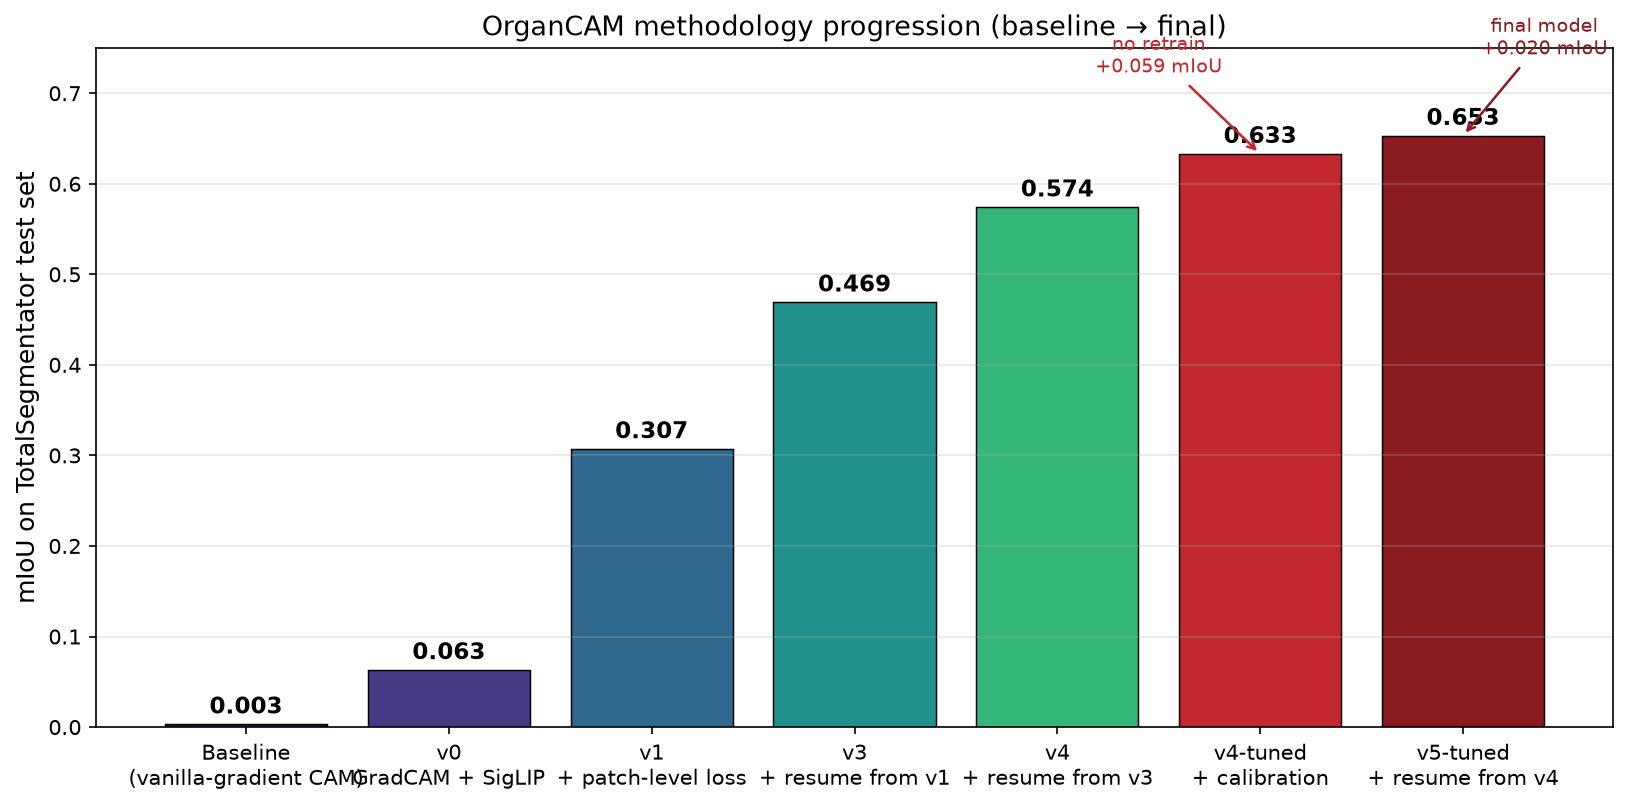
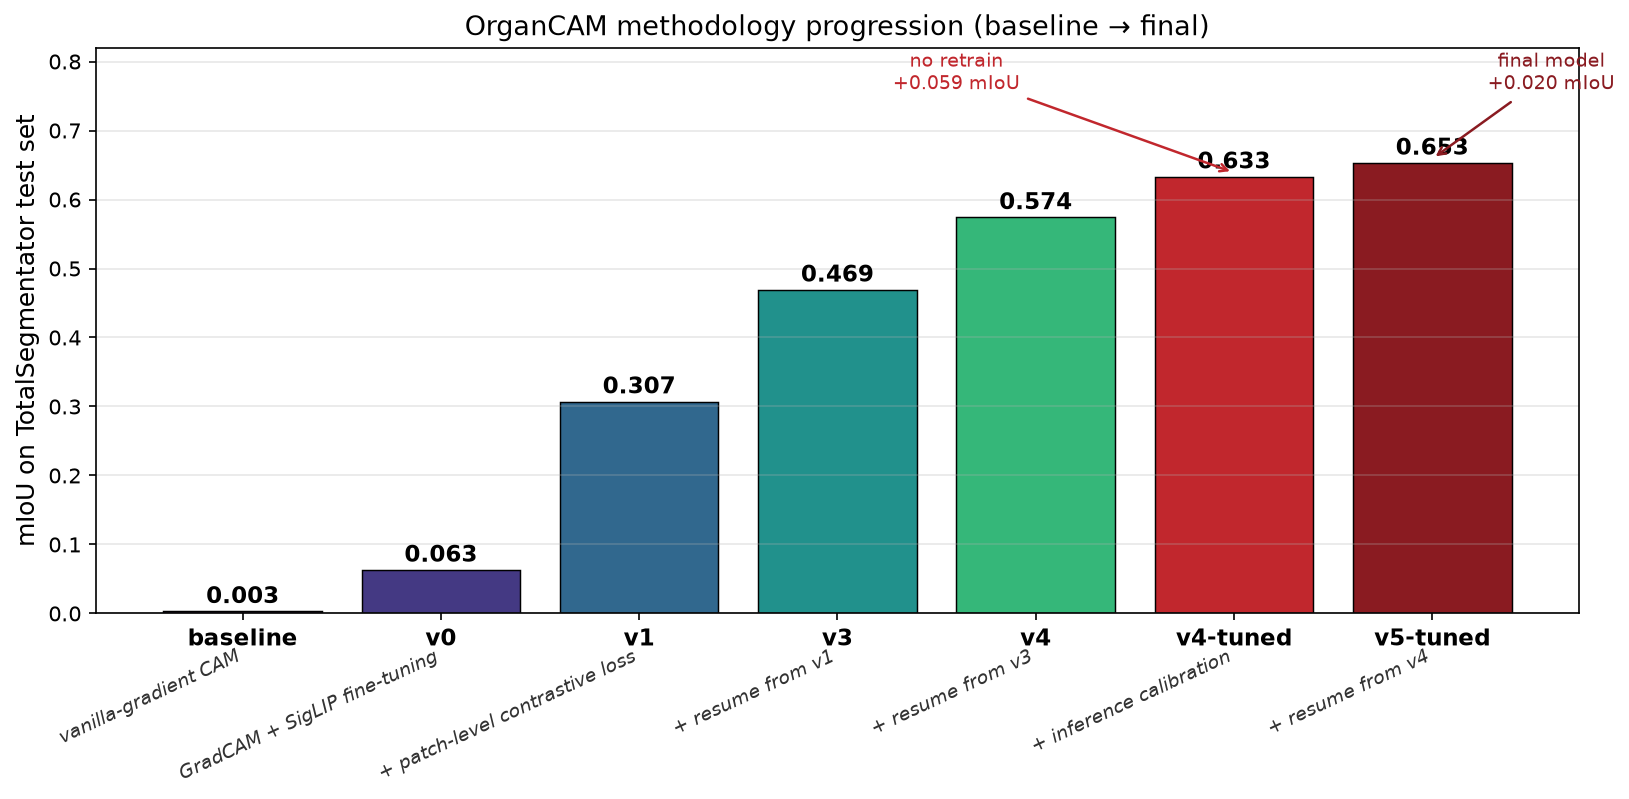
chore: publication-quality figure pass
- progression.png: replace overlapping x-labels with bold version + italic-angled descriptions; annotations anchored above bars without collision

- calibration_impact.png: tightened delta annotation anchoring

- caption_ablation.png: rows sorted by mean L1-L4 IoU descending (bilateral pairs naturally adjacent); 300 DPI, colorbar cleaned up

- raw/adjusted_similarities.png: added panel labels A-K, consistent x-axis range across classes, single top legend, tidy stats annotation box, 300 DPI

- totalseg_summary.png: proper row labels (Input CT / Patch Similarity / Overlay) via set_xticks([]) instead of axis('off'); added shared colorbar; 300 DPI

- caption_ablation.py: added --replot-only mode to regenerate heatmap from cached JSON without re-running inference

diff --git a/scripts/make_figures.py b/scripts/make_figures.py
@@ -19,14 +19,24 @@ import numpy as np
 OUT_DIR = Path("figures")
 
 # ─── Methodology progression (raw untuned checkpoint peaks, unless noted) ────
+# Short, single-line labels so they don't overlap at the given figure width.
 PROGRESSION = [
-    ("Baseline\n(vanilla-gradient CAM)", 0.003),
-    ("v0\nGradCAM + SigLIP",             0.063),
-    ("v1\n+ patch-level loss",           0.307),
-    ("v3\n+ resume from v1",             0.469),
-    ("v4\n+ resume from v3",             0.574),
-    ("v4-tuned\n+ calibration",          0.633),
-    ("v5-tuned\n+ resume from v4",       0.653),
+    ("baseline",       0.003),
+    ("v0",             0.063),
+    ("v1",             0.307),
+    ("v3",             0.469),
+    ("v4",             0.574),
+    ("v4-tuned",       0.633),
+    ("v5-tuned",       0.653),
+]
+PROGRESSION_DESCRIPTIONS = [
+    "vanilla-gradient CAM",
+    "GradCAM + SigLIP fine-tuning",
+    "+ patch-level contrastive loss",
+    "+ resume from v1",
+    "+ resume from v3",
+    "+ inference calibration",
+    "+ resume from v4",
 ]
 
 CLASSES = ["bladder", "femur-left", "femur-right", "heart",
@@ -53,40 +63,44 @@ def figure_progression():
     labels = [x[0] for x in PROGRESSION]
     values = [x[1] for x in PROGRESSION]
 
-    # gradient from grey → deep blue for the methodology arc
     cmap   = plt.get_cmap("viridis")
     colors = [cmap(i / (len(labels) - 1)) for i in range(len(labels))]
-    colors[-2] = "#c1272d"  # highlight the calibration step in red
-    colors[-1] = "#8a1b21"  # v5-tuned in darker red (final model)
+    colors[-2] = "#c1272d"
+    colors[-1] = "#8a1b21"
 
     bars = ax.bar(range(len(labels)), values, color=colors,
                   edgecolor="black", linewidth=0.7)
 
+    # Version labels on the tick axis (short, no overlap)
     ax.set_xticks(range(len(labels)))
-    ax.set_xticklabels(labels, fontsize=10)
+    ax.set_xticklabels(labels, fontsize=11, fontweight="bold")
+    # Descriptions in italics under the ticks, angled to prevent overlap
+    for i, desc in enumerate(PROGRESSION_DESCRIPTIONS):
+        ax.text(i, -0.06, desc, ha="right", va="top", rotation=25,
+                fontsize=9, style="italic", color="#333",
+                transform=ax.get_xaxis_transform())
+
     ax.set_ylabel("mIoU on TotalSegmentator test set", fontsize=12)
-    ax.set_ylim(0, 0.75)
-    ax.set_title(
-        "OrganCAM methodology progression (baseline → final)",
-        fontsize=13,
-    )
+    ax.set_ylim(0, 0.82)  # headroom for annotations
+    ax.set_title("OrganCAM methodology progression (baseline → final)", fontsize=13)
     ax.grid(axis="y", alpha=0.3)
 
     for bar, val in zip(bars, values):
         ax.text(bar.get_x() + bar.get_width() / 2, val + 0.012,
                 f"{val:.3f}", ha="center", fontsize=11, fontweight="bold")
 
+    # Annotations placed at fixed heights above the bars — no overlap.
     ax.annotate(
         "no retrain\n+0.059 mIoU",
-        xy=(len(labels) - 2, values[-2]),
-        xytext=(len(labels) - 2.5, values[-2] + 0.09),
+        xy=(len(labels) - 2, values[-2] + 0.006),
+        xytext=(len(labels) - 3.4, 0.76),
         fontsize=9, ha="center", color="#c1272d",
         arrowprops=dict(arrowstyle="->", color="#c1272d", lw=1.2),
     )
     ax.annotate(
         "final model\n+0.020 mIoU",
-        xy=(len(labels) - 1, values[-1]),
-        xytext=(len(labels) - 0.6, values[-1] + 0.09),
+        xy=(len(labels) - 1, values[-1] + 0.006),
+        xytext=(len(labels) - 0.4, 0.76),
         fontsize=9, ha="center", color="#8a1b21",
         arrowprops=dict(arrowstyle="->", color="#8a1b21", lw=1.2),
     )
@@ -120,12 +134,13 @@ def figure_calibration_impact():
     ax.legend(loc="upper right", fontsize=11)
     ax.grid(axis="y", alpha=0.3)
 
-    # annotate improvement (or lack thereof)
+    # Delta labels above each bar, anchored at fixed height so they don't
+    # float away from small-value bars.
     for i, (u, t) in enumerate(zip(uniform, tuned)):
         delta = t - u
-        y = max(u, t) + 0.025
-        col = "#0a7a0a" if delta > 0.05 else "#555555"
-        ax.text(x[i], y, f"{'+' if delta >= 0 else ''}{delta:.2f}",
+        col   = "#0a7a0a" if delta > 0.05 else "#555555"
+        y_bar = max(u, t) + 0.015
+        ax.text(x[i], y_bar, f"{'+' if delta >= 0 else ''}{delta:.2f}",
                 ha="center", fontsize=10, color=col, fontweight="bold")
 
     fig.tight_layout()

diff --git a/scripts/caption_ablation.py b/scripts/caption_ablation.py
@@ -218,38 +218,86 @@ def evaluate_level(cache, text_features):
 
 
 def plot_heatmap(all_results: dict, out_path: Path):
-    levels  = sorted(all_results.keys())
-    classes = sorted(CLASS_NAMES.keys())
-    matrix  = np.zeros((len(classes), len(levels)))
-    for j, l in enumerate(levels):
+    """Heatmap: classes sorted by mean IoU across non-adversarial levels
+    (L1-L4), descending. Bilateral pairs tend to end up adjacent naturally,
+    and the visual gradient guides the eye from top (strong) to bottom (hard).
+    """
+    plt.rcParams.update({
+        "font.family": "sans-serif",
+        "font.sans-serif": ["Helvetica", "Arial", "DejaVu Sans"],
+    })
+
+    levels_all = sorted(all_results.keys())
+    non_adv    = [l for l in levels_all if l != 5]
+
+    class_mean_easy = {
+        c: float(np.mean([all_results[l]["per_class"][c]["iou"] for l in non_adv]))
+        for c in CLASS_NAMES
+    }
+    classes = sorted(CLASS_NAMES.keys(), key=lambda c: -class_mean_easy[c])
+
+    matrix = np.zeros((len(classes), len(levels_all)))
+    for j, l in enumerate(levels_all):
         for i, c in enumerate(classes):
             matrix[i, j] = all_results[l]["per_class"][c]["iou"]
 
-    fig, ax = plt.subplots(figsize=(11, 8))
+    fig, ax = plt.subplots(figsize=(11, 7.5))
     im = ax.imshow(matrix, cmap="viridis", aspect="auto", vmin=0, vmax=1)
-    ax.set_xticks(range(len(levels)))
-    ax.set_xticklabels([f"L{l}\n{LEVEL_NAMES[l]}" for l in levels])
+
+    ax.set_xticks(range(len(levels_all)))
+    ax.set_xticklabels([f"L{l}\n{LEVEL_NAMES[l]}" for l in levels_all], fontsize=10)
     ax.set_yticks(range(len(classes)))
-    ax.set_yticklabels([CLASS_NAMES[c] for c in classes])
+    ax.set_yticklabels([CLASS_NAMES[c] for c in classes], fontsize=10)
+    ax.tick_params(axis="both", length=0)
+
     for i in range(len(classes)):
-        for j in range(len(levels)):
+        for j in range(len(levels_all)):
             v = matrix[i, j]
             ax.text(j, i, f"{v:.2f}", ha="center", va="center",
-                    color="white" if v < 0.5 else "black", fontsize=9)
-    ax.set_title("Caption ablation: per-class IoU vs prompt formulation level", fontsize=13)
-    plt.colorbar(im, ax=ax, label="IoU")
+                    color="white" if v < 0.5 else "black", fontsize=10)
+
+    ax.set_title(
+        "Caption ablation: per-class IoU across five prompt formulation levels\n"
+        "(rows sorted by mean IoU on non-adversarial levels — hard classes at bottom)",
+        fontsize=12, pad=10,
+    )
+
+    cbar = plt.colorbar(im, ax=ax, fraction=0.035, pad=0.02)
+    cbar.set_label("IoU", fontsize=11)
+    cbar.ax.tick_params(labelsize=9)
+
     fig.tight_layout()
-    fig.savefig(out_path, dpi=120)
+    fig.savefig(out_path, dpi=300, bbox_inches="tight", facecolor="white")
     plt.close(fig)
 
 
 def main():
     parser = argparse.ArgumentParser()
-    parser.add_argument("--checkpoint", required=True)
-    parser.add_argument("--root", required=True)
+    parser.add_argument("--checkpoint", required=False)
+    parser.add_argument("--root", required=False)
     parser.add_argument("--limit", type=int, default=300)
     parser.add_argument("--device", default="cuda" if torch.cuda.is_available() else "cpu")
+    parser.add_argument("--replot-only", action="store_true",
+                        help="Skip inference — read diagnostics/caption_ablation.json "
+                             "and only regenerate the heatmap")
     args = parser.parse_args()
+
+    if args.replot_only:
+        json_path = OUT_DIR / "caption_ablation.json"
+        if not json_path.exists():
+            raise FileNotFoundError(f"{json_path} not found — run without --replot-only first")
+        with open(json_path) as f:
+            raw = json.load(f)
+        all_results = {
+            int(k): {**v, "per_class": {int(c): d for c, d in v["per_class"].items()}}
+            for k, v in raw.items()
+        }
+        plot_heatmap(all_results, OUT_DIR / "caption_ablation.png")
+        print(f"Regenerated {OUT_DIR / 'caption_ablation.png'}")
+        return
+
+    if not args.checkpoint or not args.root:
+        parser.error("--checkpoint and --root are required unless --replot-only is set")
 
     if "ANTHROPIC_API_KEY" not in os.environ:
         print("Warning: ANTHROPIC_API_KEY not set — L3 generation will fail unless cached.")

diff --git a/scripts/analyze_similarities.py b/scripts/analyze_similarities.py
@@ -97,31 +97,90 @@ def otsu_threshold(fg, bg):
 
 
 def plot_distributions(per_class, key, out_path, title):
-    """Grid of histograms — foreground (blue) vs background (red) per class."""
+    """Grid of histograms — foreground vs background per class.
+
+    Publication-style: consistent x-axis range across panels, panel labels
+    (A, B, C...), sans-serif, 300 DPI.
+    """
+    import string
+
+    plt.rcParams.update({
+        "font.family": "sans-serif",
+        "font.sans-serif": ["Helvetica", "Arial", "DejaVu Sans"],
+        "axes.spines.top":   False,
+        "axes.spines.right": False,
+    })
+
     n_classes = len(CLASS_NAMES)
-    fig, axes = plt.subplots(3, 4, figsize=(18, 12))
+
+    # Shared x-range across panels for direct visual comparison.
+    all_vals = []
+    for c in range(n_classes):
+        if per_class[c][f"fg_{key}"]:
+            all_vals.extend(per_class[c][f"fg_{key}"])
+            all_vals.extend(per_class[c][f"bg_{key}"])
+    x_lo = float(np.percentile(all_vals, 0.5))
+    x_hi = float(np.percentile(all_vals, 99.5))
+
+    fig, axes = plt.subplots(3, 4, figsize=(16, 10), sharex=True)
     axes = axes.flatten()
+
+    panel_letters = list(string.ascii_uppercase)
+
     for c in range(n_classes):
         ax = axes[c]
         fg = np.asarray(per_class[c][f"fg_{key}"])
         bg = np.asarray(per_class[c][f"bg_{key}"])
+
         if fg.size == 0 or bg.size == 0:
-            ax.set_title(f"{CLASS_NAMES[c]} (no samples)")
+            ax.set_title(f"{panel_letters[c]}  {CLASS_NAMES[c]} (no samples)",
+                         fontsize=10, loc="left", fontweight="bold")
+            ax.set_xticks([])
+            ax.set_yticks([])
             continue
-        lo = min(fg.min(), bg.min())
-        hi = max(fg.max(), bg.max())
-        bins = np.linspace(lo, hi, 50)
-        ax.hist(bg, bins=bins, alpha=0.55, color="crimson", density=True, label="background")
-        ax.hist(fg, bins=bins, alpha=0.55, color="steelblue", density=True, label="foreground")
+
+        bins = np.linspace(x_lo, x_hi, 45)
+        ax.hist(bg, bins=bins, alpha=0.55, color="#d62728",
+                density=True, label="background", edgecolor="none")
+        ax.hist(fg, bins=bins, alpha=0.55, color="#1f77b4",
+                density=True, label="foreground", edgecolor="none")
+
         thr = otsu_threshold(fg, bg)
-        ax.axvline(thr, color="black", linestyle="--", linewidth=1, label=f"Otsu={thr:.3f}")
-        ax.set_title(f"{CLASS_NAMES[c]}  gap={fg.mean() - bg.mean():+.3f}")
-        ax.legend(fontsize=7)
+        ax.axvline(thr, color="black", linestyle="--", linewidth=0.8)
+
+        gap = fg.mean() - bg.mean()
+        ax.set_title(
+            f"{panel_letters[c]}  {CLASS_NAMES[c]}",
+            fontsize=11, loc="left", fontweight="bold", pad=4,
+        )
+        ax.text(0.98, 0.95, f"gap={gap:+.3f}\nOtsu={thr:+.3f}",
+                transform=ax.transAxes, ha="right", va="top",
+                fontsize=8, bbox=dict(boxstyle="round,pad=0.25",
+                                      facecolor="white", edgecolor="lightgrey",
+                                      linewidth=0.5))
+        ax.tick_params(axis="both", labelsize=8)
+        ax.set_xlim(x_lo, x_hi)
+
+    # Hide unused subplots but retain the layout
     for c in range(n_classes, len(axes)):
         axes[c].axis("off")
-    fig.suptitle(title, fontsize=14)
-    fig.tight_layout()
-    fig.savefig(out_path, dpi=120)
+
+    # Shared axis labels
+    fig.supxlabel("Raw patch-text cosine similarity", fontsize=11, y=0.02)
+    fig.supylabel("Density", fontsize=11, x=0.005)
+
+    # Single legend at top
+    handles = [
+        plt.Rectangle((0, 0), 1, 1, color="#1f77b4", alpha=0.55, label="Foreground (organ) patches"),
+        plt.Rectangle((0, 0), 1, 1, color="#d62728", alpha=0.55, label="Background patches"),
+        plt.Line2D([], [], color="black", linestyle="--", linewidth=0.8, label="Otsu threshold"),
+    ]
+    fig.legend(handles=handles, loc="upper center", ncol=3,
+               bbox_to_anchor=(0.5, 0.965), fontsize=10, frameon=False)
+
+    fig.suptitle(title, fontsize=13, y=1.005)
+    fig.tight_layout(rect=[0.01, 0.02, 1, 0.94])
+    fig.savefig(out_path, dpi=300, bbox_inches="tight", facecolor="white")
     plt.close(fig)
     print(f"  Saved {out_path}")
 

diff --git a/scripts/visualize_masks.py b/scripts/visualize_masks.py
@@ -100,43 +100,64 @@ def plot_class_grid(class_idx: int, class_name: str, entries: list, test_ds, n: 
 
 
 def plot_summary(by_class: dict, test_ds, threshold: float = 0.0):
-    """3-row × 11-col summary: original / mask heatmap / overlay."""
-    n_classes = len(CLASS_NAMES)
-    fig, axes = plt.subplots(3, n_classes, figsize=(3 * n_classes, 9))
+    """3-row × 11-col summary: original / mask heatmap / overlay.
 
+    Uses set_xticks/set_yticks([]) instead of axis('off') so row labels remain
+    visible. Includes a shared colorbar for the mask row.
+    """
+    n_classes = len(CLASS_NAMES)
+    fig       = plt.figure(figsize=(2.2 * n_classes + 1.2, 7.5))
+    # 3 rows × (n_classes cols + 1 slim colorbar column)
+    gs        = fig.add_gridspec(
+        3, n_classes + 1,
+        width_ratios=[1] * n_classes + [0.05],
+        wspace=0.08, hspace=0.15,
+    )
+    axes = np.array([[fig.add_subplot(gs[r, c]) for c in range(n_classes)]
+                     for r in range(3)])
+    cbar_ax = fig.add_subplot(gs[1, n_classes])
+
+    mask_im = None
     for class_idx in range(n_classes):
         entries    = by_class.get(class_idx, [])
         class_name = CLASS_NAMES[class_idx]
 
+        for row in range(3):
+            axes[row, class_idx].set_xticks([])
+            axes[row, class_idx].set_yticks([])
+            for spine in axes[row, class_idx].spines.values():
+                spine.set_visible(False)
+
         if not entries:
-            for row in range(3):
-                axes[row, class_idx].axis("off")
             continue
 
         entry  = entries[0]
-        image  = test_ds[entry["idx"]][0]   # (3, H, W)
+        image  = test_ds[entry["idx"]][0]
         img_np = to_display(image)
         mask   = np.load(entry["mask_path"])
-
-        mask = threshold_mask(mask, threshold)
+        mask   = threshold_mask(mask, threshold)
 
         axes[0, class_idx].imshow(img_np, cmap="gray")
-        axes[0, class_idx].set_title(class_name, fontsize=7)
-        axes[0, class_idx].axis("off")
-
         axes[1, class_idx].imshow(mask, cmap="jet", vmin=0, vmax=1)
-        axes[1, class_idx].axis("off")
-
+        mask_im = axes[1, class_idx].images[0]
         axes[2, class_idx].imshow(overlay(img_np, mask))
-        axes[2, class_idx].axis("off")
 
-    for row, label in enumerate(["Original", "Mask", "Overlay"]):
-        axes[row, 0].set_ylabel(label, fontsize=9)
+        axes[0, class_idx].set_title(class_name, fontsize=10, pad=4)
 
-    fig.suptitle("Patch Similarity Summary — All 11 Organs", fontsize=14, y=1.01)
-    fig.tight_layout()
+    for row, label in enumerate(["Input CT", "Patch\nSimilarity", "Overlay"]):
+        axes[row, 0].set_ylabel(label, fontsize=11, rotation=0,
+                                ha="right", va="center", labelpad=12,
+                                fontweight="bold")
+
+    if mask_im is not None:
+        cbar = fig.colorbar(mask_im, cax=cbar_ax)
+        cbar.set_label("Similarity (post-threshold, normalized)", fontsize=9)
+        cbar.ax.tick_params(labelsize=8)
+
+    fig.suptitle("Patch-similarity pseudo-masks across all 11 organs (v5-tuned, one representative slice per class)",
+                 fontsize=12, y=0.98)
     out = FIGURES_DIR / "totalseg_summary.png"
-    fig.savefig(out, dpi=150, bbox_inches="tight")
+    fig.savefig(out, dpi=300, bbox_inches="tight", facecolor="white")
     plt.close(fig)
     print(f"  Saved {out}")
 
